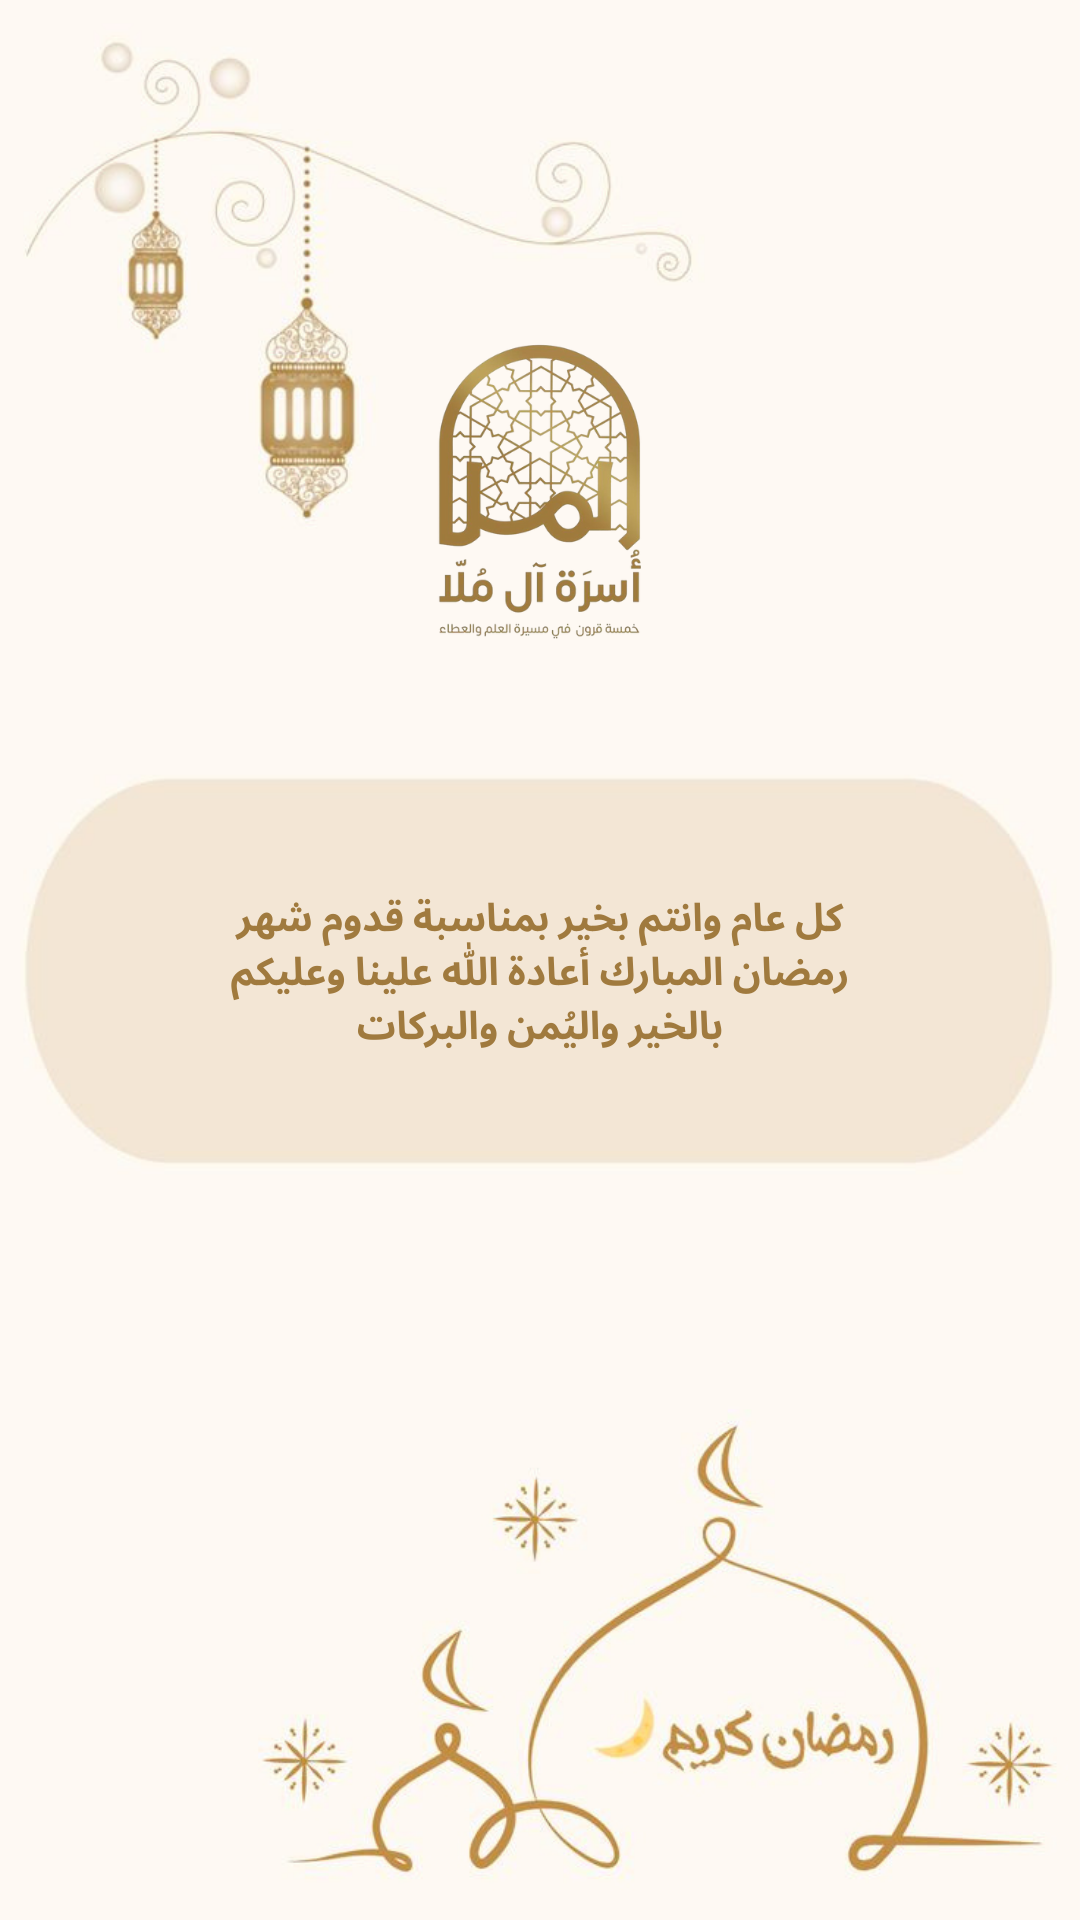
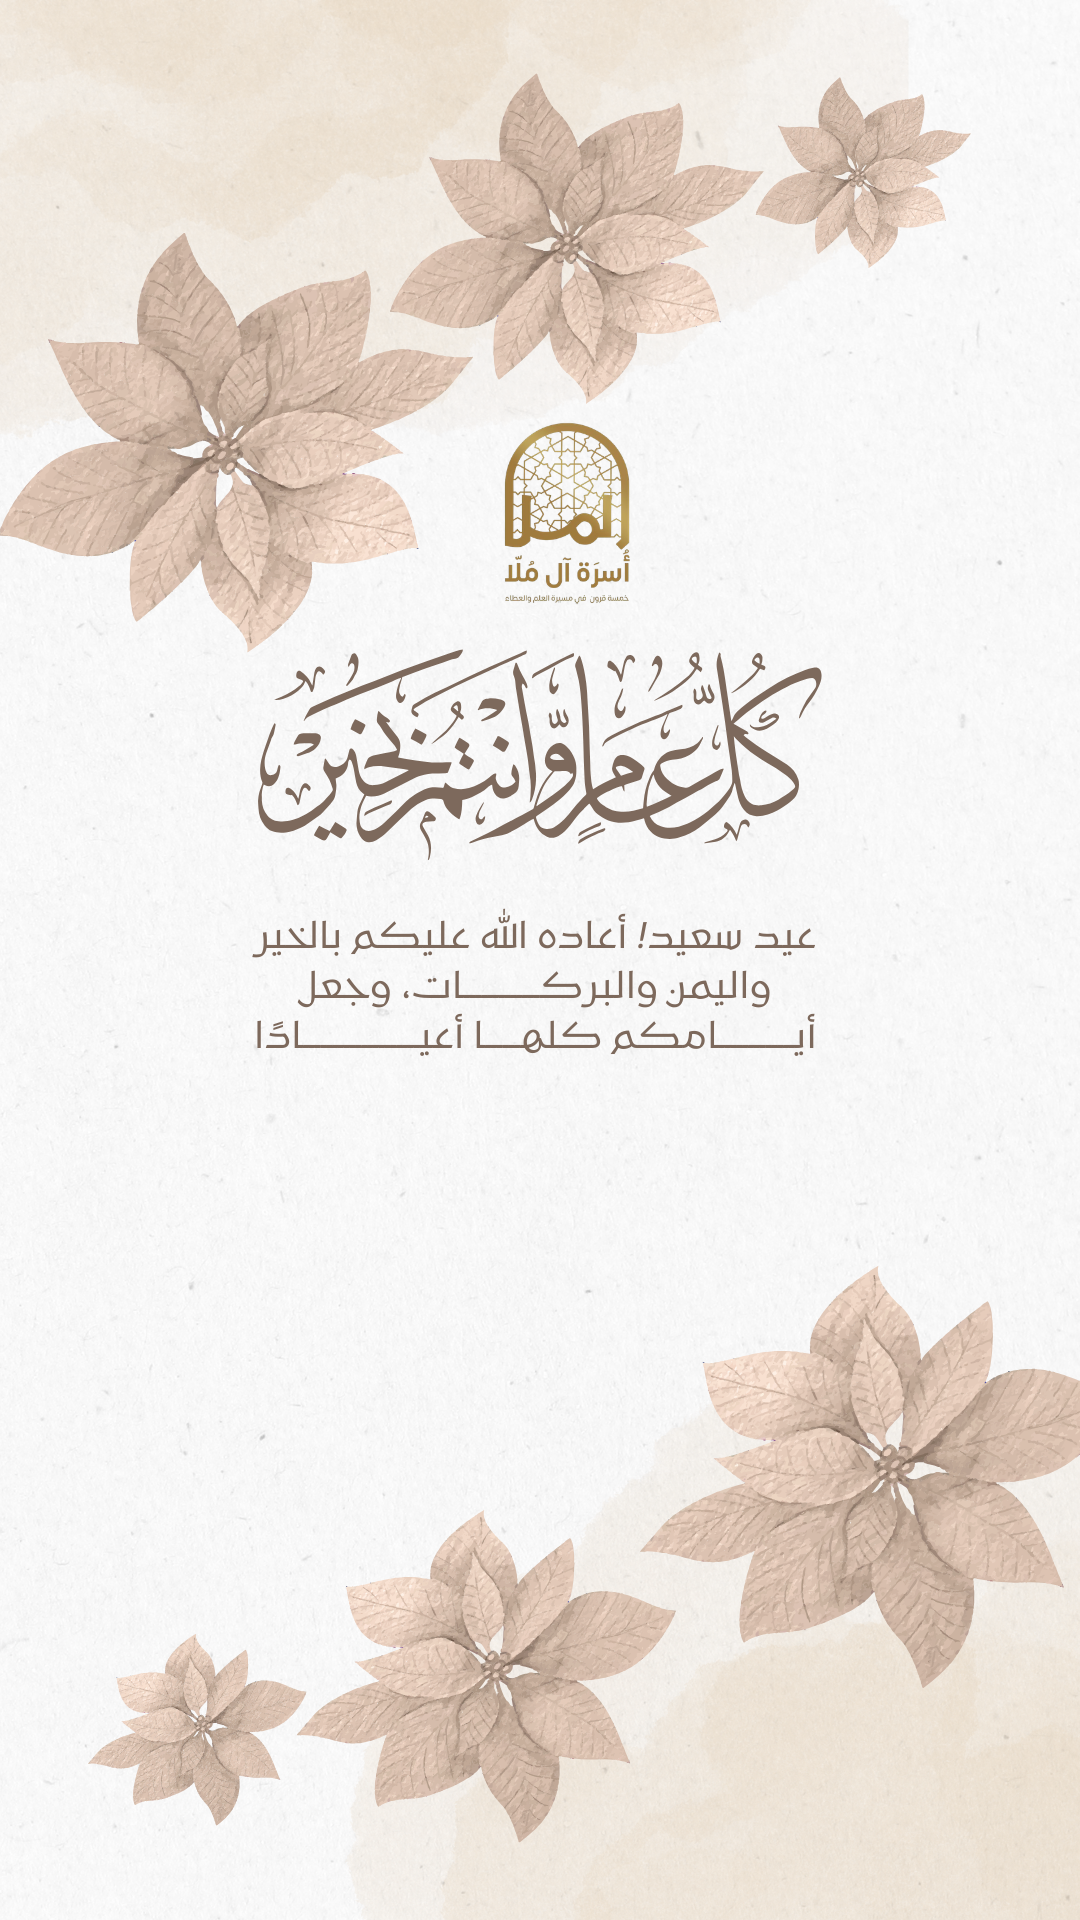
Add Eid cards version

diff --git a/app/pages/card/ramadan/index.vue b/app/pages/card/ramadan/index.vue
@@ -31,7 +31,7 @@
 
         <div class="previewMeta">
           <div class="metaLeft">
-            <span class="pill">رمضان {{ current.id }}</span>
+            <span class="pill">العيد {{ current.id }}</span>
           </div>
           <div class="metaRight">جاهز للمعايدة ✨</div>
         </div>
@@ -54,7 +54,7 @@
         </div>
 
         <div class="thumbBar">
-          <span class="thumbTitle">رمضان {{ b.id }}</span>
+          <span class="thumbTitle">العيد {{ b.id }}</span>
           <span class="thumbTag" v-if="i === index">محدد</span>
         </div>
       </button>
@@ -83,7 +83,7 @@ const backgrounds = Array.from({ length: 12 }, (_, i) => {
   const n = i + 1
   return {
     id: n,
-    label: `رمضان ${n}`,
+    label: `العيد ${n}`,
     src: `/templates/ramadan_${n}.png`,
   }
 })
